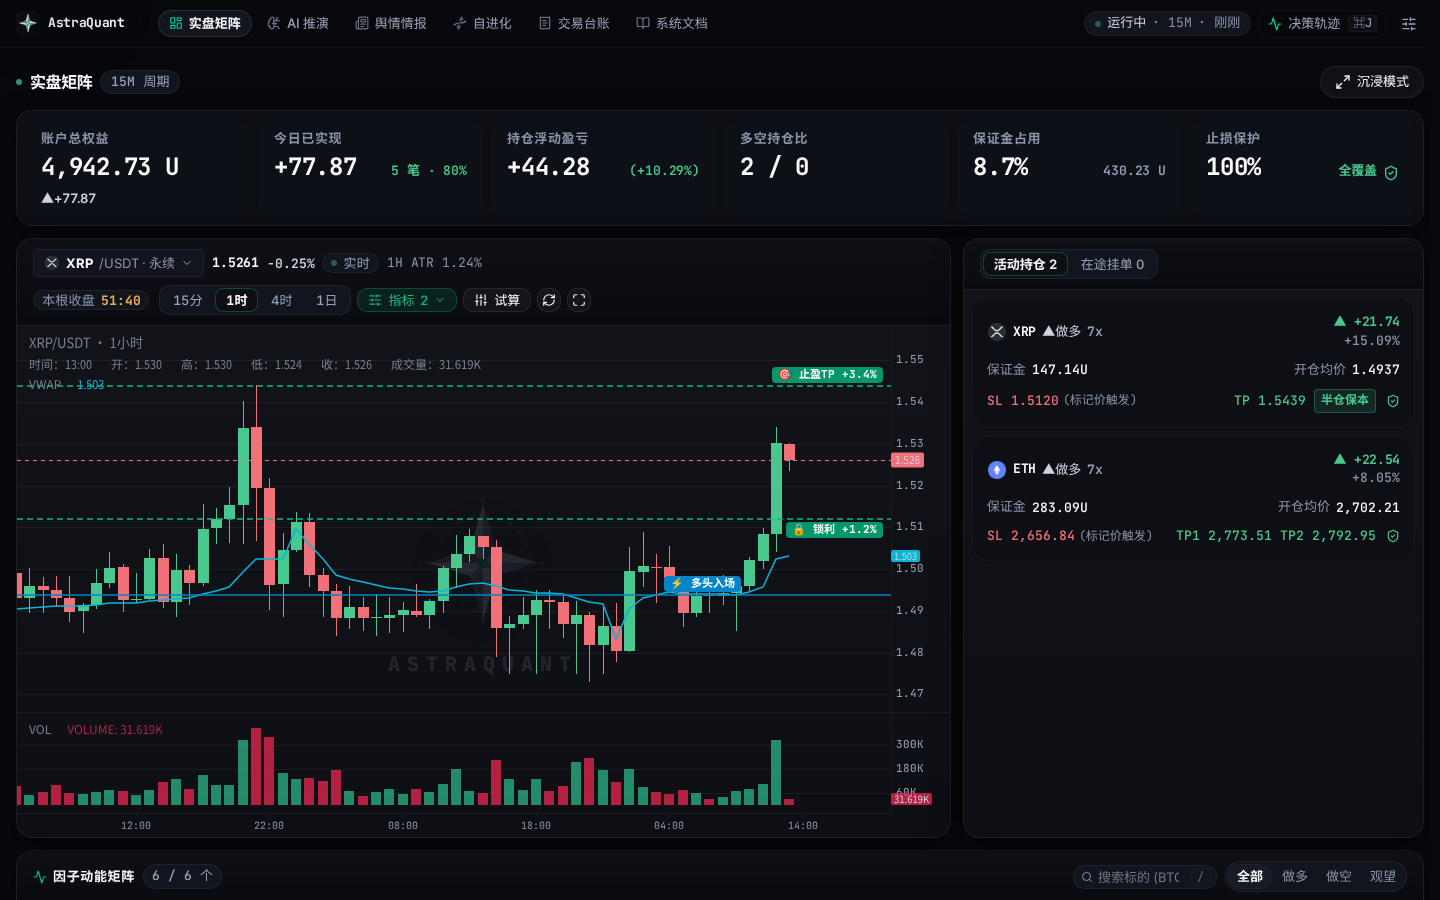
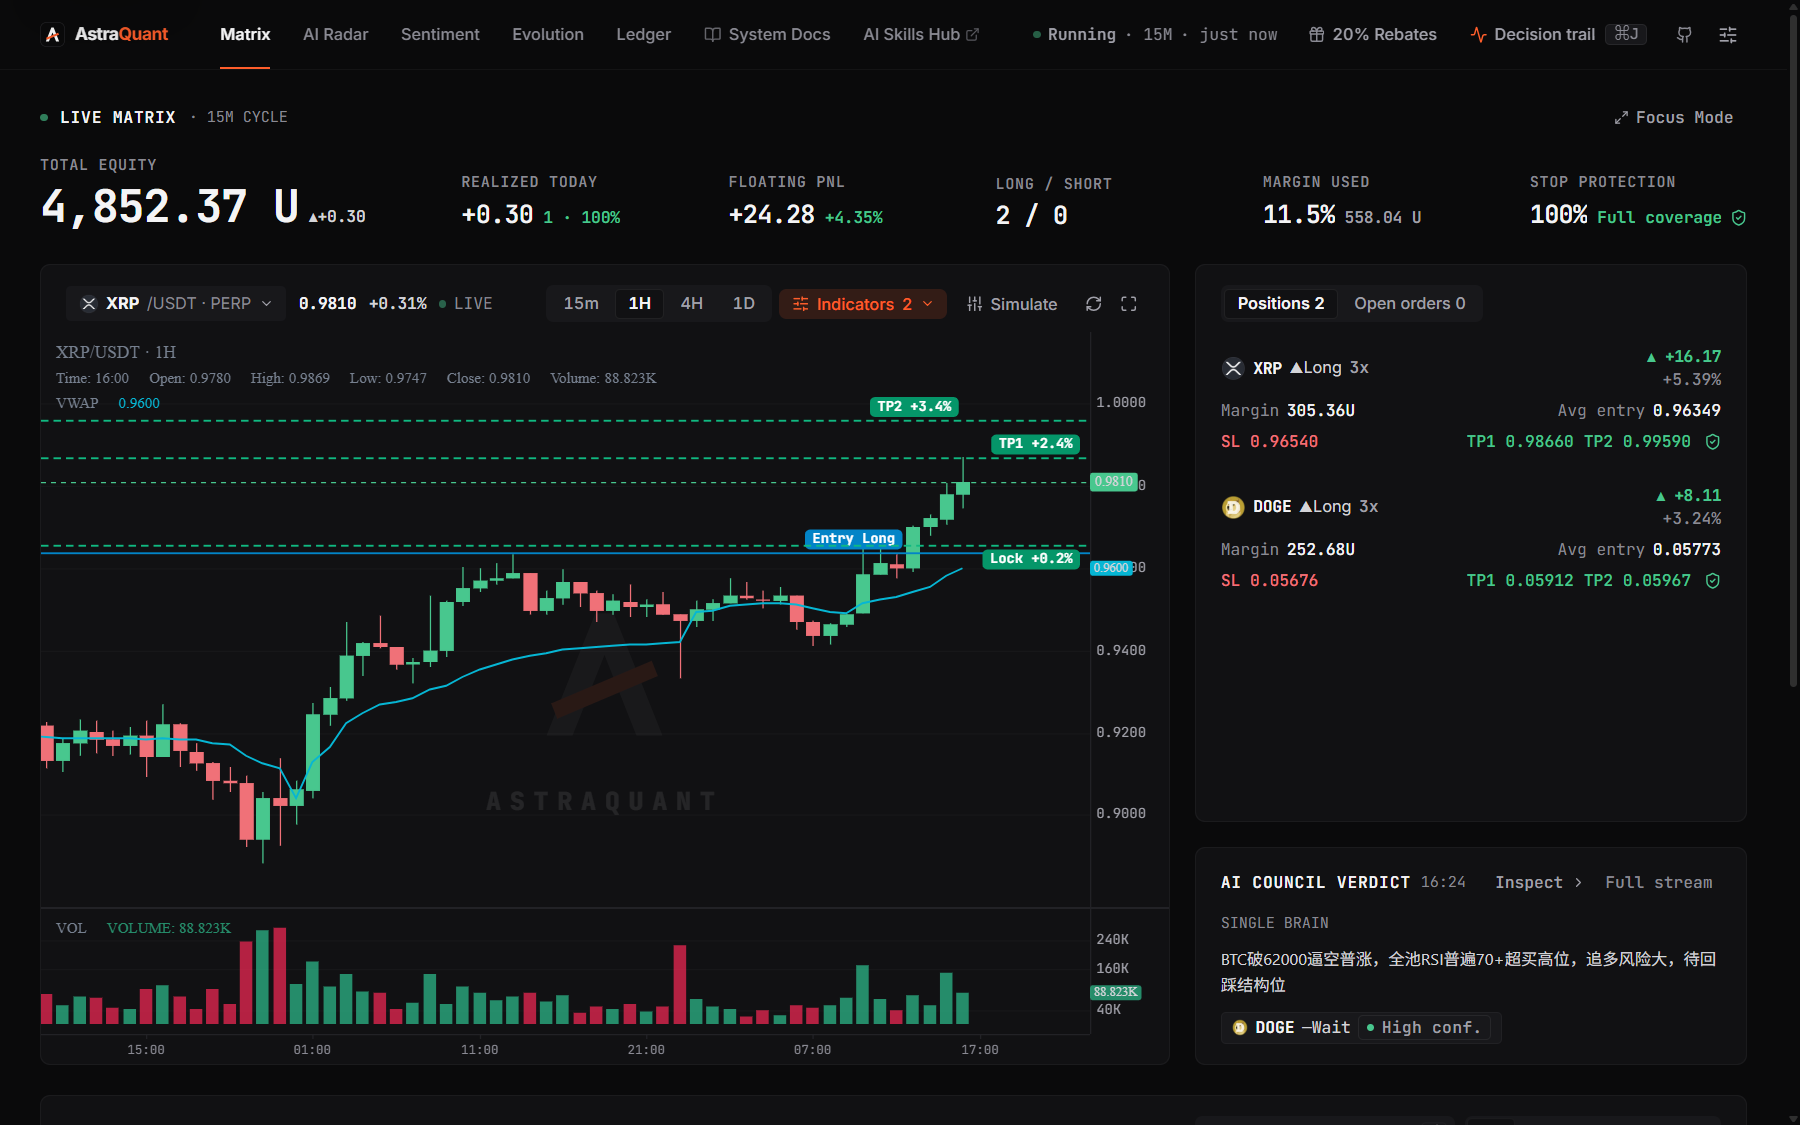
docs(ui): refresh README and OG screenshots with v8.7.1 Signal Orange workstation

diff --git a/README.md b/README.md
@@ -25,17 +25,17 @@ AstraQuant combines large language models (macro, technical, and microstructure 
 
 | | |
 |---|---|
-| **Quant Trading Workstation**<br>![Live Workstation](backend/docs/images/v850_live_dashboard.png) | **Chain-of-Thought (CoT) Decision Drawer**<br>![Chain of Thought](backend/docs/images/v850_trajectory_cot.png) |
-| **Execution Risk Control Center**<br>![Risk Control](backend/docs/images/v850_risk_control.png) | **Multi-Model Committee Board**<br>![Council Board](backend/docs/images/v850_council_board.png) |
+| **Quant Trading Workstation (Signal Orange)**<br>![Live Workstation](backend/docs/images/v871_live_dashboard.png) | **AI Signal & Decision Radar**<br>![AI Radar](backend/docs/images/v871_factors_radar.png) |
+| **Closed-Loop Self-Evolution Hub**<br>![Self Evolution](backend/docs/images/v871_self_evolution.png) | **Live Trade Ledger & Position Lifecycle**<br>![Trade Ledger](backend/docs/images/v871_ledger.png) |
 
 <details>
-<summary><b>Additional Interface Previews</b> (Click to expand: Prompt Studio, Evolution, Admin, Security)</summary>
+<summary><b>Additional Interface Previews</b> (Click to expand: CoT Drawer, Risk Control, Prompt Studio, Admin, Security)</summary>
 
 | | |
 |---|---|
-| **Prompt Engineering Studio**<br>![Prompt Studio](backend/docs/images/v850_prompt_studio.png) | **Closed-Loop Self-Evolution Hub**<br>![Self Evolution](backend/docs/images/v850_self_evolution.png) |
-| **LLM Gateway & Thinking Config**<br>![LLM Hub](backend/docs/images/v850_llm_hub.png) | **System Governance & Admin Overview**<br>![Admin Overview](backend/docs/images/v850_admin_overview.png) |
-| **Security & Credential Plaza**<br>![Security Plaza](backend/docs/images/v850_security_plaza.png) | **Factor Telemetry Table**<br>![Factor Matrix](backend/docs/images/v850_calculus_factors.png) |
+| **Chain-of-Thought (CoT) Decision Drawer**<br>![Chain of Thought](backend/docs/images/v850_trajectory_cot.png) | **Execution Risk Control Center**<br>![Risk Control](backend/docs/images/v850_risk_control.png) |
+| **Prompt Engineering Studio**<br>![Prompt Studio](backend/docs/images/v850_prompt_studio.png) | **LLM Gateway & Thinking Config**<br>![LLM Hub](backend/docs/images/v850_llm_hub.png) |
+| **System Governance & Admin Overview**<br>![Admin Overview](backend/docs/images/v850_admin_overview.png) | **Security & Credential Plaza**<br>![Security Plaza](backend/docs/images/v850_security_plaza.png) |
 
 </details>
 

diff --git a/README.zh-CN.md b/README.zh-CN.md
@@ -25,17 +25,17 @@ AstraQuant 将大语言模型多维度研判（宏观趋势、技术形态、盘
 
 | | |
 |---|---|
-| **机构量化交易大屏**<br>![交易工作台](backend/docs/images/v850_live_dashboard.png) | **决策思维链 (CoT) 抽屉**<br>![思维链详情](backend/docs/images/v850_trajectory_cot.png) |
-| **物理风控管理中心**<br>![风控管理](backend/docs/images/v850_risk_control.png) | **多模型协同投委会看板**<br>![投委会看板](backend/docs/images/v850_council_board.png) |
+| **机构量化交易大屏 (Signal Orange)**<br>![交易工作台](backend/docs/images/v871_live_dashboard.png) | **AI 推演信号与决策审计雷达**<br>![AI Radar](backend/docs/images/v871_factors_radar.png) |
+| **闭环经验自进化中枢**<br>![经验自进化](backend/docs/images/v871_self_evolution.png) | **实况交易台账与持仓生命周期**<br>![交易台账](backend/docs/images/v871_ledger.png) |
 
 <details>
-<summary><b>展开查看更多系统界面</b>（提示词工坊、自进化、系统治理、安全凭证等）</summary>
+<summary><b>展开查看更多系统界面</b>（思维链详情、风控中心、提示词工坊、系统治理、安全凭证等）</summary>
 
 | | |
 |---|---|
-| **提示词工程工坊**<br>![提示词工坊](backend/docs/images/v850_prompt_studio.png) | **闭环经验自进化中枢**<br>![经验自进化](backend/docs/images/v850_self_evolution.png) |
-| **大模型网关与思考配置**<br>![大模型中枢](backend/docs/images/v850_llm_hub.png) | **系统治理与运维概览**<br>![系统治理](backend/docs/images/v850_admin_overview.png) |
-| **安全与密钥凭证管理**<br>![安全中心](backend/docs/images/v850_security_plaza.png) | **多维因子遥测矩阵**<br>![量化因子矩阵](backend/docs/images/v850_calculus_factors.png) |
+| **决策思维链 (CoT) 抽屉**<br>![思维链详情](backend/docs/images/v850_trajectory_cot.png) | **物理风控管理中心**<br>![风控管理](backend/docs/images/v850_risk_control.png) |
+| **提示词工程工坊**<br>![提示词工坊](backend/docs/images/v850_prompt_studio.png) | **大模型网关与思考配置**<br>![大模型中枢](backend/docs/images/v850_llm_hub.png) |
+| **系统治理与运维概览**<br>![系统治理](backend/docs/images/v850_admin_overview.png) | **安全与密钥凭证管理**<br>![安全中心](backend/docs/images/v850_security_plaza.png) |
 
 </details>
 
